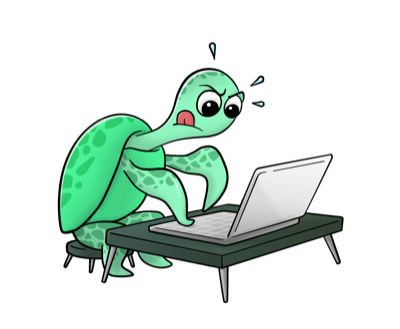
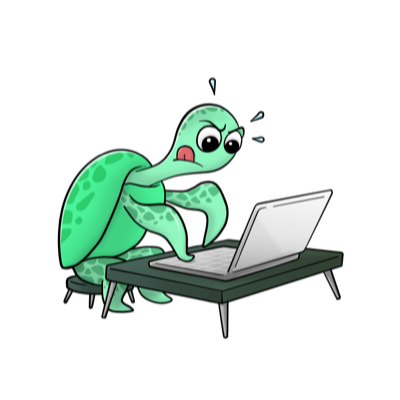
Fixing severe doc annoyance (#1598)
fixing sever doc annoyance

Changed region(s): [[0.12, 0.1216, 0.87, 0.9422]]

diff --git a/docs/index.md b/docs/index.md
@@ -80,65 +80,85 @@ community/contribution_guidelines/index
 
 
 ::::::{grid} 1 1 3 3
+:child-align:
 :gutter: 1
 
 :::::{grid-item}
-
+:child-align:
 ::::{grid} 1 1 1 1
+:child-align:
 :gutter: 1
 
 :::{card} <h2><center> Getting Started </center></h2>
+:margin: 1
+:width: 100%
+:text-align:
 :link: getting_started/index.html
-&nbsp;&nbsp;&nbsp;&nbsp;&nbsp;&nbsp;<img src="assets/intro/coffee.png" alt="coffee" width="82%">
+:img-bottom: assets/intro/coffee.png
 :::
 
 :::{card} <h2><center> Tutorials </center></h2>
+:margin: 1
+:width: 100%
+:text-align:
 :link: tutorials/index.html
-&nbsp;&nbsp;&nbsp;&nbsp;&nbsp;&nbsp;&nbsp;&nbsp;&nbsp;<img src="assets/intro/test_turtle.png" alt="hey" width="90%">
+:img-bottom: assets/intro/test_turtle.png
 :::
 
 :::{card} <h2><center> API Reference </center></h2>
+:margin: 1
+:width: 100%
 :link: reference/index.html
-<img src="assets/intro/Giskard_Turtle_Computer.png" alt="test" width="97%">
+:img-bottom: assets/intro/Giskard_Turtle_Computer.png
 :::
 ::::
 
 :::::
 
 :::::{grid-item}
-
+:child-align:
 ::::{grid} 1 1 1 1
+:child-align:
 :gutter: 1
 
 :::{card} <h2><center> Open-Source Library </center></h2>
+:margin: 1
+:width: 100%
+:text-align:
 :link: open_source/installation_library/index.html
-
-&nbsp;&nbsp;&nbsp;&nbsp;&nbsp;&nbsp;<img src="assets/intro/ninja.png" alt="ninja" width="64%">
+:img-bottom: assets/intro/ninja.png
 :::
 
 :::{card} <h2><center> Knowledge </center></h2>
+:margin: 1
+:width: 100%
+:text-align:
 :link: knowledge/llm_vulnerabilities/index.html
-&nbsp;&nbsp;&nbsp;&nbsp;&nbsp;&nbsp;<img src="assets/intro/integrations.png" alt="test" width="98%">
+:img-bottom: assets/intro/integrations.png
 :::
-
 ::::
-
 :::::
 
 :::::{grid-item}
-
+:child-align:
 ::::{grid} 1 1 1 1
+:child-align:
 :gutter: 1
 
 :::{card} <h2><center> Giskard Hub </center></h2>
+:margin: 1
+:width: 100%
+:text-align:
 :link: giskard_hub/installation_hub/index.html
-
-&nbsp;&nbsp;&nbsp;&nbsp;&nbsp;&nbsp;<img src="assets/intro/Giskard_Turtle_SK8.png" alt="ninja" width="86.0025%">
+:img-bottom: assets/intro/Giskard_Turtle_SK8.png
 :::
 
 :::{card} <h2><center> Integrations & Community </center></h2>
+:margin: 1
+:width: 100%
+:text-align:
 :link: integrations/index.html
-&nbsp;&nbsp;&nbsp;&nbsp;&nbsp;&nbsp;<img src="assets/intro/hey.png" alt="hey" width="56.5%">
+:img-bottom: assets/intro/hey.png
 :::
 
 ::::
